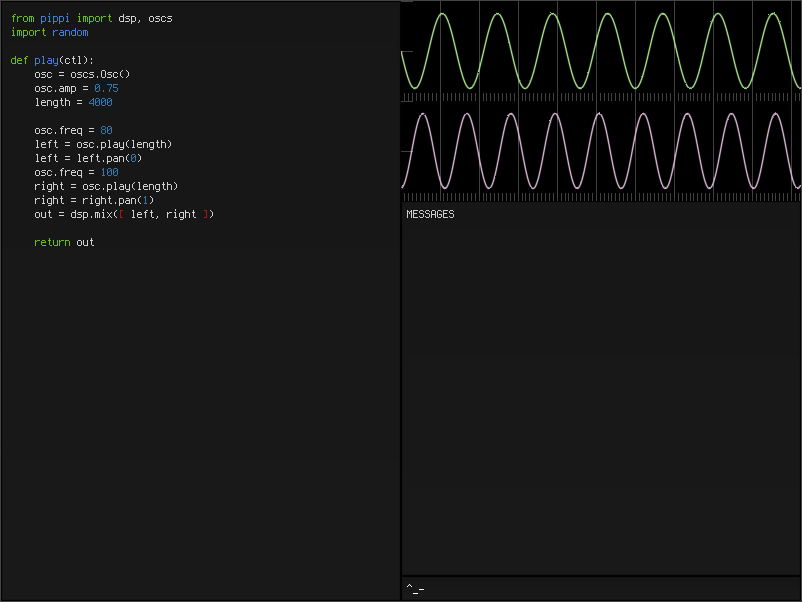
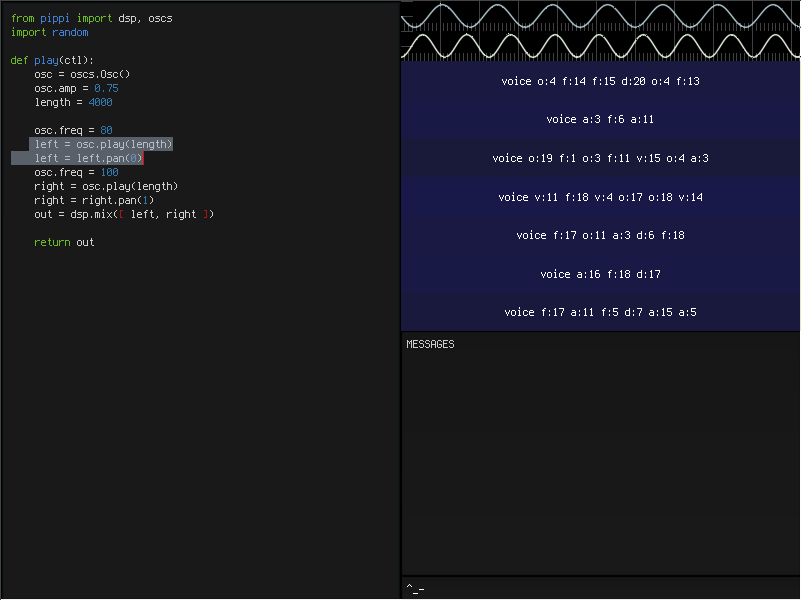
first pass voice list...

Changed region(s): [[0.0, 0.0, 1.0, 1.0], [0.0, 0.21, 0.2497, 0.36], [0.0312, 0.09, 0.1561, 0.18]]

diff --git a/astrid/ui/ide.py b/astrid/ui/ide.py
@@ -1,13 +1,18 @@
-from kivy.app import App
 import random
-from pippi import dsp, oscs, interpolation
+
+from kivy.app import App
+from kivy.extras.highlight import PythonLexer
+from kivy.garden.graph import Graph, MeshLinePlot, SmoothLinePlot
+from kivy.graphics import Color, Rectangle
 from kivy.properties import ListProperty, StringProperty
+from kivy.uix.accordion import Accordion, AccordionItem
 from kivy.uix.boxlayout import BoxLayout
-from kivy.uix.textinput import TextInput
 from kivy.uix.codeinput import CodeInput
 from kivy.uix.gridlayout import GridLayout
-from kivy.garden.graph import Graph, MeshLinePlot, SmoothLinePlot
-from kivy.extras.highlight import PythonLexer
+from kivy.uix.label import Label
+from kivy.uix.textinput import TextInput
+
+from pippi import dsp, oscs, interpolation
 
 INITIAL_SCRIPT= """\
 from pippi import dsp, oscs
@@ -29,6 +34,89 @@ def play(ctl):
     return out
 """
 
+class Waveform(BoxLayout):
+    def __init__(self, sound, **kwargs):
+        super().__init__(**kwargs)
+        graph_size_x = 1024
+        graph_size_y = 60
+
+        self.orientation='vertical'
+        self.size_hint=(1, None)
+        self.height=graph_size_y
+
+        colors = []
+        for _ in range(sound.channels):
+            colors += [ [random.triangular(0.5, 1), random.triangular(0.5, 1), random.triangular(0.5, 1)] ]
+
+        for channel in range(sound.channels):
+            graph = Graph(
+                    x_ticks_minor=10, 
+                    x_ticks_major=100, 
+                    y_ticks_major=1, 
+                    y_grid_label=False, 
+                    x_grid_label=False, 
+                    padding=0, 
+                    x_grid=True, 
+                    draw_border=False, 
+                    y_grid=False, 
+                    xmin=-0, 
+                    xmax=graph_size_x, 
+                    ymin=-1, 
+                    ymax=1,
+                    size_hint=(1, 1), 
+                )
+
+            plot = SmoothLinePlot(color=colors[channel])
+            points = [ sound[x][channel] for x in range(len(sound)) ]
+            points = interpolation.linear(points, graph_size_x)
+            points = [ (x, point) for x, point in enumerate(points) ]
+            plot.points = points
+            graph.add_plot(plot)
+            self.add_widget(graph)
+
+def make_sound():
+    osc = oscs.Osc()
+    osc.amp = 0.75
+    length = 4000
+
+    osc.freq = 80
+    left = osc.play(length)
+    left = left.pan(0)
+    osc.freq = 100
+    right = osc.play(length)
+    right = right.pan(1)
+    out = dsp.mix([ left, right ])
+
+    return out
+
+class Voice(Label):
+    def __init__(self, *args, **kwargs):
+        super().__init__(*args, **kwargs)
+        self.font_name = '../../files/fonts/terminus/terminus.ttf'
+        self.font_size = 12
+        self.halign = 'left'
+        self.valign = 'center'
+        self.markup = True
+        self.color = [1,1,1,1]
+        self.disabled_color = [0.8, 0.8, 0.8, 1]
+        self.size = self.texture_size
+
+    def on_size(self, *args):
+        self.canvas.before.clear()
+        with self.canvas.before:
+            Color(0.1, 0.1, random.triangular(0.2, 0.3), 1)
+            Rectangle(pos=self.pos, size=self.size)
+
+class VoiceList(BoxLayout):
+    def __init__(self, *args, **kwargs):
+        super().__init__(*args, **kwargs)
+        self.orientation = 'vertical'
+
+        for _ in range(random.randint(3, 12)):
+            params = ' '.join([ '{}:{}'.format(random.choice(['o', 'd', 'f', 'a', 'v']), random.randint(1, 20)) for _ in range(random.randint(3, 8)) ])
+            label = Voice(text='voice [b]{}[/b]'.format(params))
+            self.add_widget(label)
+
 class Codebox(BoxLayout):
     def __init__(self, *args, **kwargs):
         super(Codebox, self).__init__(*args, **kwargs)
@@ -46,7 +134,7 @@ class Codebox(BoxLayout):
 class Console(BoxLayout):
     def __init__(self, *args, **kwargs):
         kwargs.update({'orientation': 'vertical'})
-        super(Console, self).__init__(*args, **kwargs)
+        super().__init__(*args, **kwargs)
 
         messages = TextInput(text='MESSAGES', multiline=True, focus=False, size_hint=(1, 1), readonly=True)
         commands = TextInput(text='^_- ', multiline=False, size_hint=(1, None), height=25, readonly=False)
@@ -70,57 +158,17 @@ class Astrid(App):
         return self.run()
 
     def build(self):
-        graph_size_x = 1024
-        graph_size_y = 100
-
         layout = GridLayout(cols=2)
         right_pane = BoxLayout(orientation='vertical')
         codebox = Codebox()
         console = Console()
+        voicelist = VoiceList()
 
-        osc = oscs.Osc()
-        osc.amp = 0.75
-        length = 4000
+        sound = make_sound()
+        graph = Waveform(sound)
+        right_pane.add_widget(graph)
 
-        osc.freq = 80
-        left = osc.play(length)
-        left = left.pan(0)
-        osc.freq = 100
-        right = osc.play(length)
-        right = right.pan(1)
-        out = dsp.mix([ left, right ])
-
-        colors = []
-        for _ in range(out.channels):
-            colors += [ [random.triangular(0.5, 1), random.triangular(0.5, 1), random.triangular(0.5, 1)] ]
-
-        for channel in range(out.channels):
-            graph = Graph(
-                    x_ticks_minor=10, 
-                    x_ticks_major=100, 
-                    y_ticks_major=1, 
-                    y_grid_label=False, 
-                    x_grid_label=False, 
-                    padding=0, 
-                    x_grid=True, 
-                    draw_border=False, 
-                    y_grid=False, 
-                    xmin=-0, 
-                    xmax=graph_size_x, 
-                    ymin=-1, 
-                    ymax=1,
-                    size_hint=(1, None), 
-                    height=graph_size_y
-                )
-
-            plot = SmoothLinePlot(color=colors[channel])
-            points = [ out[x][channel] for x in range(len(out)) ]
-            points = interpolation.linear(points, graph_size_x)
-            points = [ (x, point) for x, point in enumerate(points) ]
-            plot.points = points
-            graph.add_plot(plot)
-            right_pane.add_widget(graph)
-
+        right_pane.add_widget(voicelist)
         right_pane.add_widget(console)
 
         layout.add_widget(codebox)
